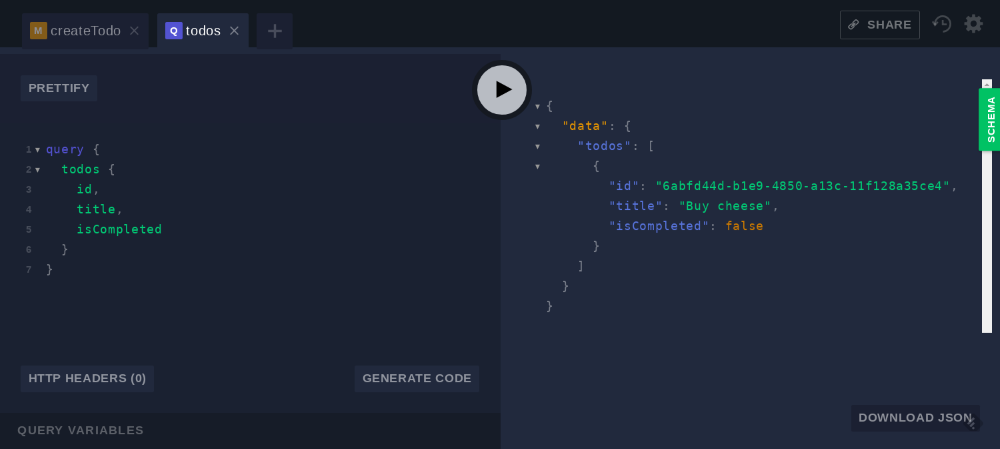
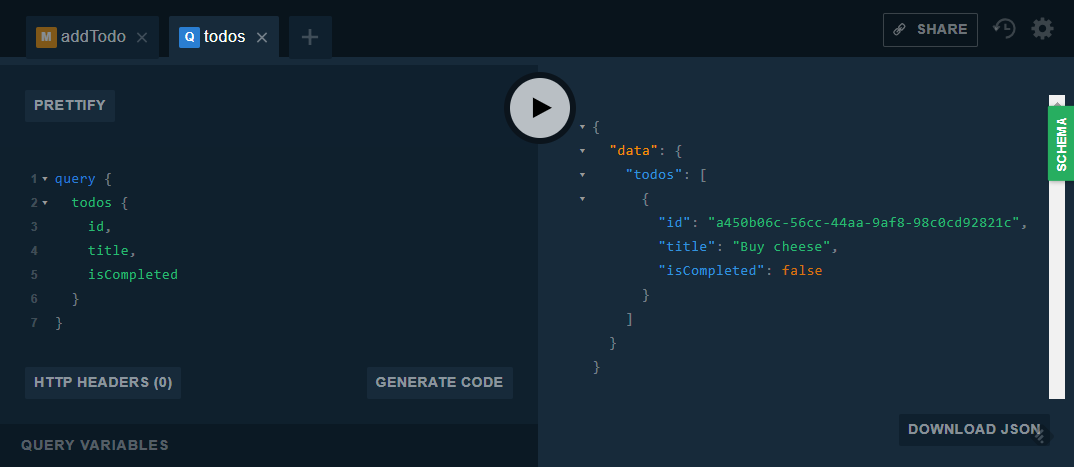
docs(readme): update snapshots

diff --git a/README.md b/README.md
@@ -26,7 +26,7 @@ These are the implementations, ordered according to complexity:
 
 All implementations will expose the same GraphQL playground on [http://localhost:8080/ui/playground](http://localhost:8080/ui/playground). Using the playground you will be able to query and mutate state using GraphQL, as shown below.
 
-![alt text](./doc/resources/create-todo.png "Create todo")
+![alt text](./doc/resources/add-todo.png "Add todo")
 
 ![alt text](./doc/resources/get-todos.png "Get todo")
 
